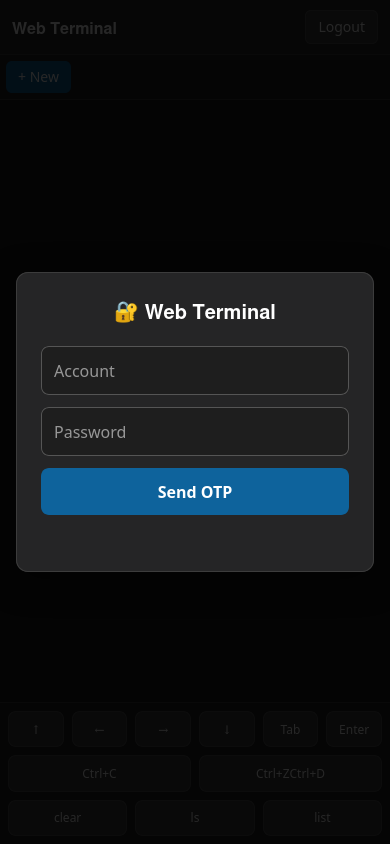
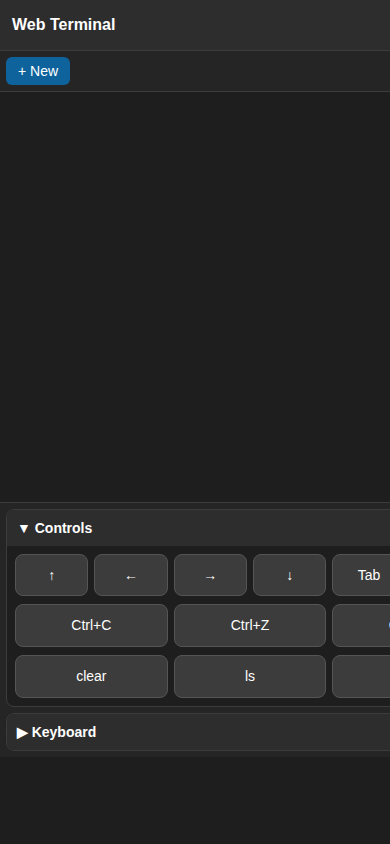
Refactor styles for controls and sections; add demo phone keyboard image
- Updated CSS styles for controls, including padding and gap adjustments.
- Introduced new styles for section toggles and content, enhancing layout and interactivity.
- Added a new settings file for VSCode to disable .dockerrc.
- Included a demo image for the phone keyboard to improve visual representation.

diff --git a/static/index.html b/static/index.html
@@ -5,7 +5,7 @@
   <meta name="viewport" content="width=device-width, initial-scale=1.0, maximum-scale=1.0, user-scalable=no">
   <title>Web Terminal</title>
   <link rel="stylesheet" href="https://cdn.jsdelivr.net/npm/xterm@5.3.0/css/xterm.css">
-  <link rel="stylesheet" href="style.css">
+  <link rel="stylesheet" href="style.css?v=4">
 </head>
 <body>
   <div id="login-overlay">
@@ -39,28 +39,66 @@
     </div>
     <div id="terminals"></div>
     <div id="controls">
-      <div class="control-row">
-        <button data-key="up" title="Up arrow">↑</button>
-        <button data-key="left" title="Left arrow">←</button>
-        <button data-key="right" title="Right arrow">→</button>
-        <button data-key="down" title="Down arrow">↓</button>
-        <button data-key="tab" title="Tab">Tab</button>
-        <button data-key="enter" title="Enter">Enter</button>
+      <div class="control-section">
+        <button class="section-toggle" data-section="controls">▼ Controls</button>
+        <div class="section-content" id="section-controls">
+          <div class="control-row">
+            <button data-key="up" title="Up arrow">↑</button>
+            <button data-key="left" title="Left arrow">←</button>
+            <button data-key="right" title="Right arrow">→</button>
+            <button data-key="down" title="Down arrow">↓</button>
+            <button data-key="tab" title="Tab">Tab</button>
+            <button data-key="enter" title="Enter">Enter</button>
+          </div>
+          <div class="control-row">
+            <button data-key="ctrl-c" title="Send Ctrl+C">Ctrl+C</button>
+            <button data-key="ctrl-z" title="Send Ctrl+Z">Ctrl+Z</button>
+            <button data-key="ctrl-d" title="Send Ctrl+D">Ctrl+D</button>
+          </div>
+          <div class="control-row">
+            <button data-cmd="clear" title="Run clear">clear</button>
+            <button data-cmd="ls" title="Run ls">ls</button>
+            <button data-cmd="list" title="Go up one directory">list</button>
+          </div>
+        </div>
       </div>
-      <div class="control-row">
-        <button data-key="ctrl-c" title="Send Ctrl+C">Ctrl+C</button>
-        <button data-key="ctrl-z" title="Send Ctrl+Z">Ctrl+Z</n        <button data-key="ctrl-d" title="Send Ctrl+D">Ctrl+D</button>
-      </div>
-      <div class="control-row">
-        <button data-cmd="clear" title="Run clear">clear</button>
-        <button data-cmd="ls" title="Run ls">ls</button>
-        <button data-cmd="list" title="Run ls -la">list</button>
+      <div class="control-section">
+        <button class="section-toggle" data-section="keyboard">▶ Keyboard</button>
+        <div class="section-content collapsed" id="section-keyboard">
+          <div class="keyboard-row">
+            <button data-char="1">1</button><button data-char="2">2</button><button data-char="3">3</button>
+            <button data-char="4">4</button><button data-char="5">5</button><button data-char="6">6</button>
+            <button data-char="7">7</button><button data-char="8">8</button><button data-char="9">9</button>
+            <button data-char="0">0</button>
+          </div>
+          <div class="keyboard-row">
+            <button data-char="q">q</button><button data-char="w">w</button><button data-char="e">e</button>
+            <button data-char="r">r</button><button data-char="t">t</button><button data-char="y">y</button>
+            <button data-char="u">u</button><button data-char="i">i</button><button data-char="o">o</button>
+            <button data-char="p">p</button>
+          </div>
+          <div class="keyboard-row">
+            <button data-char="a">a</button><button data-char="s">s</button><button data-char="d">d</button>
+            <button data-char="f">f</button><button data-char="g">g</button><button data-char="h">h</button>
+            <button data-char="j">j</button><button data-char="k">k</button><button data-char="l">l</button>
+          </div>
+          <div class="keyboard-row">
+            <button data-char="z">z</button><button data-char="x">x</button><button data-char="c">c</button>
+            <button data-char="v">v</button><button data-char="b">b</button><button data-char="n">n</button>
+            <button data-char="m">m</button><button data-key="backspace" title="Backspace">⌫</button>
+          </div>
+          <div class="keyboard-row">
+            <button data-char="-">-</button><button data-char="_">_</button><button data-char=".">.</button>
+            <button data-char="/">/</button><button data-char="@">@</button><button data-char=" ">Space</button>
+            <button data-key="enter">Enter</button>
+          </div>
+        </div>
       </div>
     </div>
   </div>
 
   <script src="https://cdn.jsdelivr.net/npm/xterm@5.3.0/lib/xterm.min.js"></script>
   <script src="https://cdn.jsdelivr.net/npm/xterm-addon-fit@0.8.0/lib/xterm-addon-fit.min.js"></script>
-  <script src="app.js"></script>
+  <script src="app.js?v=4"></script>
 </body>
 </html>

diff --git a/static/style.css b/static/style.css
@@ -245,22 +245,60 @@ header {
 #controls {
   background: #252526;
   border-top: 1px solid #3c3c3c;
+  padding: 6px;
+  display: flex;
+  flex-direction: column;
+  gap: 6px;
+  flex-shrink: 0;
+}
+
+.control-section {
+  background: #1e1e1e;
+  border: 1px solid #3c3c3c;
+  border-radius: 8px;
+  overflow: hidden;
+}
+
+.section-toggle {
+  width: 100%;
+  padding: 10px;
+  background: #2d2d2d;
+  border: none;
+  color: #fff;
+  font-size: 14px;
+  font-weight: 600;
+  text-align: left;
+  cursor: pointer;
+  touch-action: manipulation;
+  user-select: none;
+  -webkit-tap-highlight-color: transparent;
+}
+
+.section-toggle:active {
+  background: #0e639c;
+}
+
+.section-content {
   padding: 8px;
   display: flex;
   flex-direction: column;
   gap: 8px;
-  flex-shrink: 0;
 }
 
-.control-row {
+.section-content.collapsed {
+  display: none;
+}
+
+.control-row,
+.keyboard-row {
   display: flex;
-  gap: 8px;
+  gap: 6px;
 }
 
-#controls button {
+#controls button:not(.section-toggle) {
   flex: 1 1 0;
   min-width: 0;
-  padding: 12px 4px;
+  padding: 12px 2px;
   font-size: 14px;
   font-weight: 500;
   background: #3c3c3c;
@@ -273,21 +311,29 @@ header {
   line-height: 1.2;
 }
 
-#controls button:active {
+#controls button:not(.section-toggle):active {
   background: #0e639c;
   border-color: #0e639c;
 }
 
+.keyboard-row button {
+  text-transform: uppercase;
+}
+
 @media (max-width: 480px) {
-  #controls button {
-    padding: 10px 2px;
+  #controls button:not(.section-toggle) {
+    padding: 10px 1px;
     font-size: 12px;
+  }
+  .section-toggle {
+    font-size: 13px;
+    padding: 8px;
   }
 }
 
 @media (min-width: 768px) {
-  #controls button {
-    padding: 10px 14px;
+  #controls button:not(.section-toggle) {
+    padding: 10px 10px;
     font-size: 15px;
   }
 }

diff --git a/static/app.js b/static/app.js
@@ -17,12 +17,13 @@ const keyMap = {
   'ctrl-c': '\x03',
   'ctrl-z': '\x1a',
   'ctrl-d': '\x04',
+  backspace: '\x7f',
 };
 
 const cmdMap = {
   clear: 'clear',
   ls: 'ls',
-  list: 'ls -la',
+  list: 'cd ..',
 };
 
 function encode(str) {
@@ -226,7 +227,6 @@ function switchTab(id) {
   const t = tabs.get(id);
   setTimeout(() => {
     t.fitAddon.fit();
-    t.term.focus();
   }, 0);
 }
 
@@ -256,26 +256,37 @@ function closeTab(id) {
 function initApp() {
   document.getElementById('new-tab').addEventListener('click', createTerminal);
 
+  // Section toggles
   document.getElementById('controls').addEventListener('click', (e) => {
     if (!e.target.matches('button')) return;
-    const t = tabs.get(activeTabId);
-    if (!t || t.socket.readyState !== WebSocket.OPEN) return;
 
-    const key = e.target.dataset.key;
-    const cmd = e.target.dataset.cmd;
-
-    if (readOnlyMode) {
-      // In read-only mode, still allow Ctrl+C/Z/D to be sent? No — enforce silence.
+    // Fold / unfold sections
+    if (e.target.classList.contains('section-toggle')) {
+      const section = e.target.dataset.section;
+      const content = document.getElementById(`section-${section}`);
+      const isCollapsed = content.classList.toggle('collapsed');
+      e.target.textContent = `${isCollapsed ? '▶' : '▼'} ${section.charAt(0).toUpperCase() + section.slice(1)}`;
       return;
     }
 
+    const t = tabs.get(activeTabId);
+    if (!t || t.socket.readyState !== WebSocket.OPEN) return;
+
+    if (readOnlyMode) return;
+
+    const key = e.target.dataset.key;
+    const cmd = e.target.dataset.cmd;
+    const char = e.target.dataset.char;
+
     if (key && keyMap[key]) {
       t.socket.send(encode(keyMap[key]));
-      t.term.focus();
     } else if (cmd && cmdMap[cmd]) {
       t.socket.send(encode(cmdMap[cmd] + '\r'));
-      t.term.focus();
+    } else if (char !== undefined) {
+      t.socket.send(encode(char));
     }
+    // Keep the native phone keyboard hidden after using on-screen buttons
+    t.term.blur();
   });
 
   createTerminal();

diff --git a/README.md b/README.md
@@ -6,13 +6,18 @@ A phone-friendly web-based terminal inspired by [ttyd](https://github.com/tsl092
 - Telegram-bot 6-digit OTP login
 - Server-wide read-only mode (like `ttyd -r`)
 - Phone control bar: arrow keys, Ctrl+C/Z/D, Tab, Enter, quick commands
+- Foldable on-screen keyboard (letters, numbers, symbols, space, backspace)
 - Runs in a background `tmux` session with UFW port auto-open
 
 ## Screenshots
 
-Phone viewport
+Phone viewport — controls folded
 
 ![Phone layout](demo-phone.png)
+
+Phone viewport — keyboard open
+
+![Phone keyboard](demo-phone-keyboard.png)
 
 Desktop viewport
 